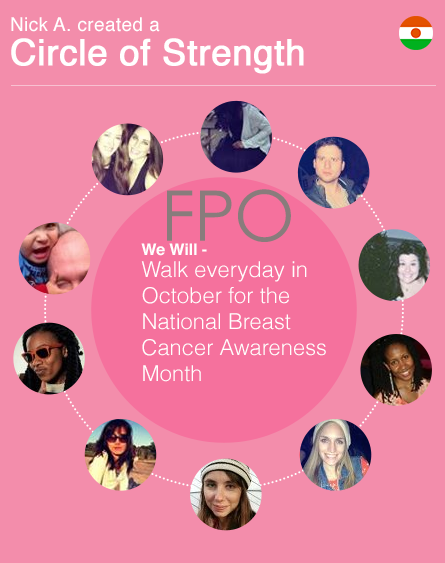
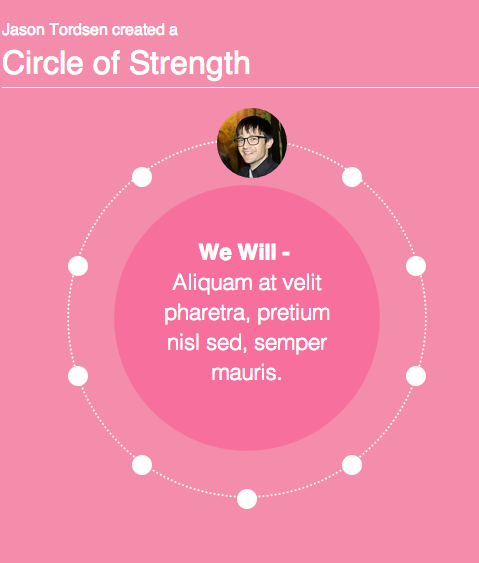
push

Changed region(s): [[0.0, 0.0302, 0.9933, 0.9663], [0.8764, 0.0302, 0.9933, 0.0906], [0.3798, 0.7549, 0.4382, 0.7851]]

diff --git a/js/main.js b/js/main.js
@@ -334,7 +334,7 @@ function getFriendList(e){
 			        
 			        //resize the field
 			        $("#temp_name_enter_container").html(response.name);
-				    $('#friend_search_field').width($("#temp_name_enter_container").width() + 15);
+				    $('#friend_search_field').width($("#temp_name_enter_container").width() + 25);
 				    $('#name_plus_btn').show();
 
 			      } else {
@@ -579,7 +579,7 @@ function confirmCreateCircle(){
 		}, TOOLTIP_TIMEOUT)
 		return;
 	}
-	
+
 	console.log("show confirm")
 	closeCreateCircleScreen();
 	$('#circle_confirm_screen').show();
@@ -598,6 +598,12 @@ function createCircle(){
 		console.log("friend tags", friendTagIDs);
 		console.log("goal", goal);
 		console.log("language", language);
+
+		var friendNum = friendSelectedArray.length + 1;
+
+		var popupData = "$.popup({type:'circle', data:{  content: 'We Will - <br />"+ goal+ "',avatar: '"+ userProfilePhoto + "', num_friends: " + friendNum + "}});"
+
+		$($('#close_create_circle_btn').parent()).attr('onclick', popupData);
 		
 		facebook.createCircle();
 
@@ -628,6 +634,4 @@ function createCircle(){
 		cancelCreateCircleScreen();
 		
 }
-
-
 

diff --git a/css/main.css b/css/main.css
@@ -130,7 +130,6 @@ h2{
     font-weight: lighter;
     letter-spacing: 1px;
     padding: 2px 20px 7px 0;
-    border-bottom: 1px #ddd solid;
 }
 
 #collapse_share_module{

diff --git a/application/views/home_view.php b/application/views/home_view.php
@@ -70,8 +70,8 @@
 	                			<div id="featured_circle"><img src='<?php echo base_url(); ?>img/pics/circle.png'/></div>
 	                		</div>
 	                		<div class="top_content_sub_span2 span2">
-	                			<div id="featured_instagram" class="social_item "><img src='<?php echo base_url(); ?>img/pics/instagram.png'/></div>
-	                			<div id="featured_twitter" class="social_item "></div>
+	                			<div id="featured_instagram" class="social_item "><img src='<?php echo base_url(); ?>img/pics/instagram.jpg'/></div>
+	                			<div id="featured_twitter" class="social_item "><img src='<?php echo base_url(); ?>img/pics/twitter.png'/></div>
 	                		</div>
 	                	</div>
 	                	</div>

diff --git a/application/views/top_popup/circle_confirm_view.php b/application/views/top_popup/circle_confirm_view.php
@@ -24,7 +24,7 @@
 		</div>
 		<table class="btn_control">
 			<tr>
-			    <td style="text-align:center"><div id="close_create_circle_btn" class='pink_btn pull_right'>close</div></td>
+			    <td style="text-align:center"><a><div id="close_create_circle_btn" class='pink_btn pull_right'>close</div></a></td>
 			</tr>
 		</table>
 	</div>
